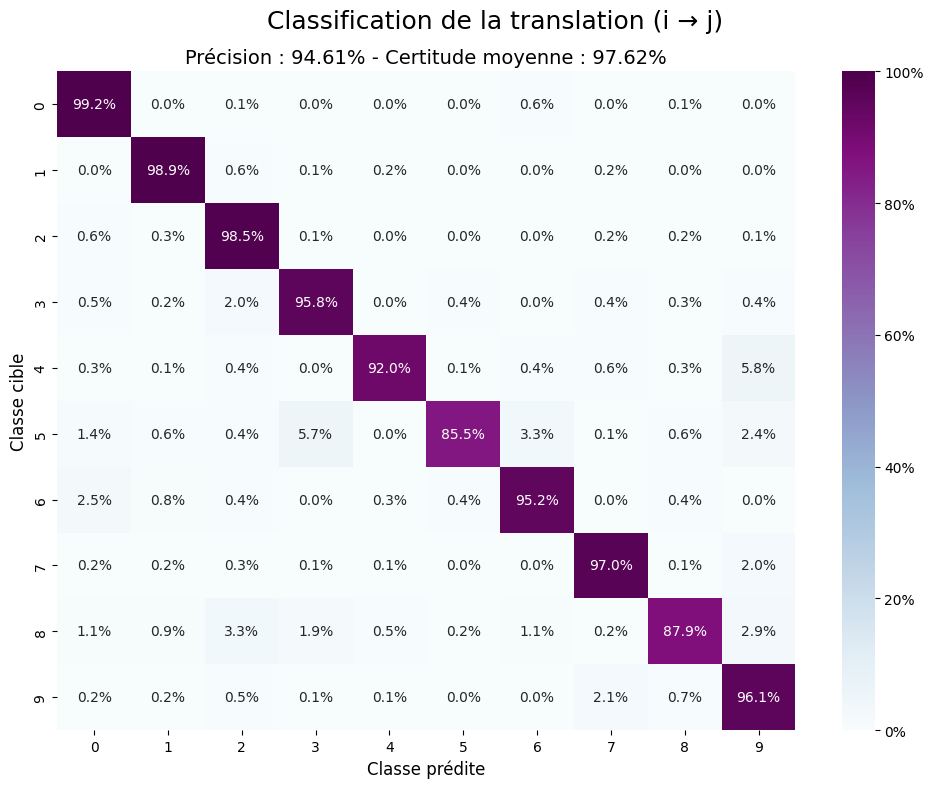
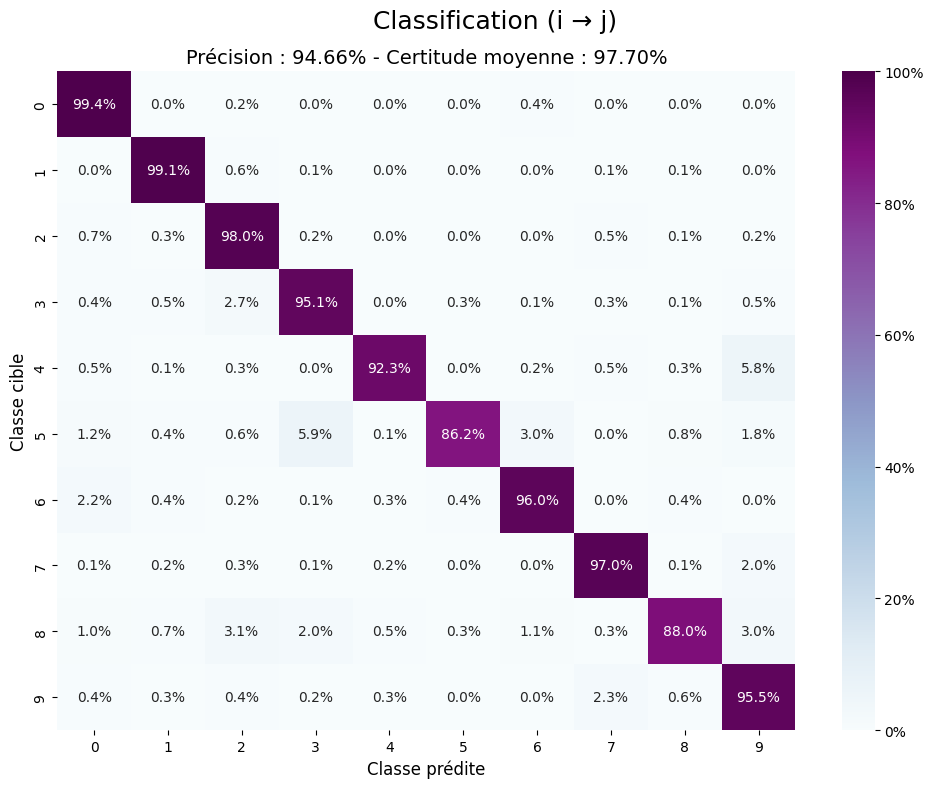
Added confusion matrices with QDA

diff --git a/Sources/code/analytics/trace_confusion.py b/Sources/code/analytics/trace_confusion.py
@@ -85,6 +85,29 @@ y_trans = (y_src != y_dst).astype(int)
 FOLDER = cache.RESULTS_FOLDER / "TraceConfusion"
 FOLDER.mkdir(parents=True, exist_ok=True)
 
+# Classification sans translation
+
+guessed, _, certainties = utils.classify(x_src, classifier)
+cm = confusion_matrix(y_src, guessed, labels=np.arange(10))
+plots.compute_confusion_matrix(
+    cm,
+    certainties,
+    np.arange(10),
+    FOLDER / f"classif-{model_type}-i.png",
+    f"Classification (i)"
+)
+
+if not autoencoder.decoder.requires_labels():
+    guessed, _, certainties = latent.classify_mg(z_src, z_train, y_train)
+    cm = confusion_matrix(y_src, guessed, labels=np.arange(10))
+    plots.compute_confusion_matrix(
+        cm,
+        certainties,
+        np.arange(10),
+        FOLDER / f"classif-{model_type}-i-mg.png",
+        f"Classification QDA (i)"
+    )
+
 # Reconnaissance de la classe source sans translation
 guessed, _, certainties = utils.classify(x_src, trace_classifier)
 cm = confusion_matrix(y_src, guessed, labels=np.arange(10))
@@ -106,8 +129,19 @@ plots.compute_confusion_matrix(
     certainties,
     np.arange(10),
     FOLDER / f"classif-{model_type}-i-j.png",
-    f"Classification de la translation (i → j)"
+    f"Classification (i → j)"
 )
+
+if not autoencoder.decoder.requires_labels():
+    guessed, _, certainties = latent.classify_mg(z_dst, z_train, y_train)
+    cm = confusion_matrix(y_dst, guessed, labels=np.arange(10))
+    plots.compute_confusion_matrix(
+        cm,
+        certainties,
+        np.arange(10),
+        FOLDER / f"classif-{model_type}-i-j-mg.png",
+        f"Classification QDA (i → j)"
+    )
 
 # Reconnaissance de la classe source après translation
 guessed, _, certainties = utils.classify(x_dst, trace_classifier)
@@ -165,6 +199,17 @@ plots.compute_confusion_matrix(
     FOLDER / f"classif-{model_type}-i-j-i.png",
     f"Classification (i → j → i)"    
 )
+
+if not autoencoder.decoder.requires_labels():
+    guessed, _, certainties = latent.classify_mg(z_invsrc, z_train, y_train)
+    cm = confusion_matrix(y_src, guessed, labels=np.arange(10))
+    plots.compute_confusion_matrix(
+        cm,
+        certainties,
+        np.arange(10),
+        FOLDER / f"classif-{model_type}-i-j-i-mg.png",
+        f"Classification QDA (i → j → i)"
+    )
 
 # Détection de la translation inverse
 guessed, _, certainties = utils.classify(x_invsrc, trace_detector)

diff --git a/Sources/code/models/training/AAE.py b/Sources/code/models/training/AAE.py
@@ -96,7 +96,6 @@ class Classifier(tf.keras.Model):
         return config
 
 @tf.keras.utils.register_keras_serializable()
-@tf.keras.utils.register_keras_serializable()
 class AdvClassifier(tf.keras.Model):
     def __init__(self, latent_dim_style, num_classes=10, **kwargs):
         super().__init__(**kwargs)
